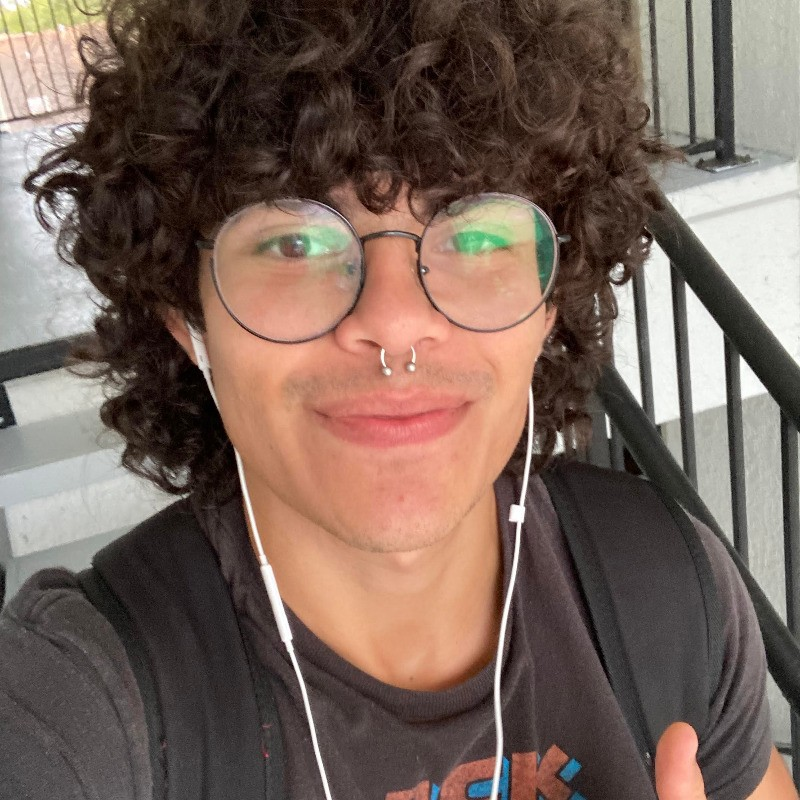
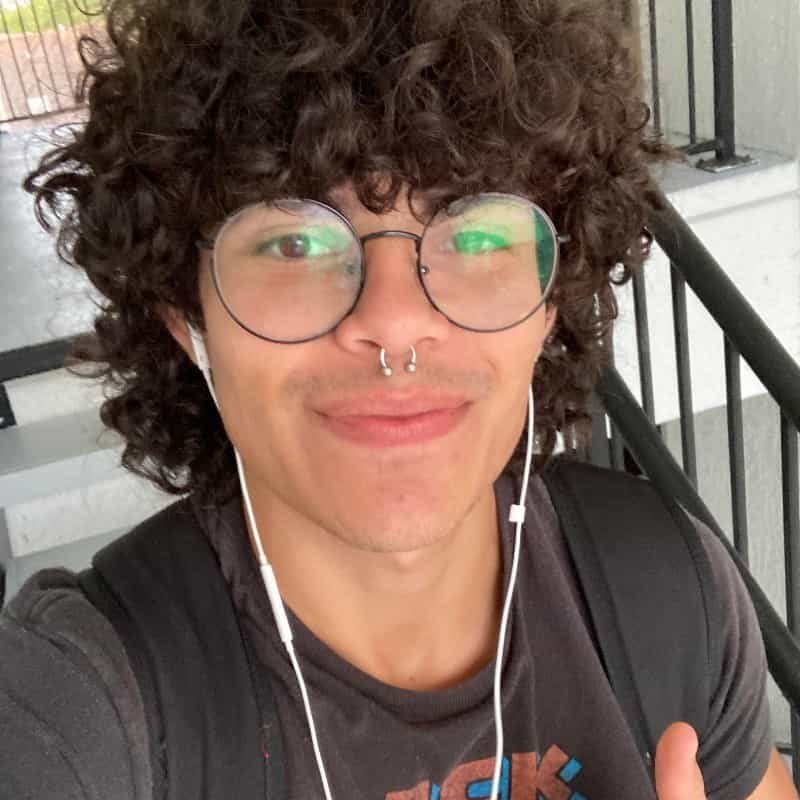
compress all images

Changed region(s): [[0.6562, 0.25, 0.6875, 0.2812], [0.4062, 0.25, 0.4375, 0.2812]]

diff --git a/src/App.css b/src/App.css
@@ -298,7 +298,7 @@ img {
 
 .selectable {
   cursor: pointer;
-  transition: color 0.5s ease, transform 0.2s ease font-size 0.2s ease;
+  transition: color 0.5s ease, transform 0.2s ease, font-size 0.2s ease;
 }
 
 .select-yellow:hover {
@@ -317,7 +317,7 @@ img {
 }
 
 .select-grow-text:hover {
-  font-size: 180%;
+  font-size: 130%;
 }
 
 /* Specific */
@@ -327,8 +327,6 @@ img {
 
   /* Make text smaller for better fit */
   font-size: 1.15rem;
-
-  /* Make it cushy */
 }
 
 #profile-name {
